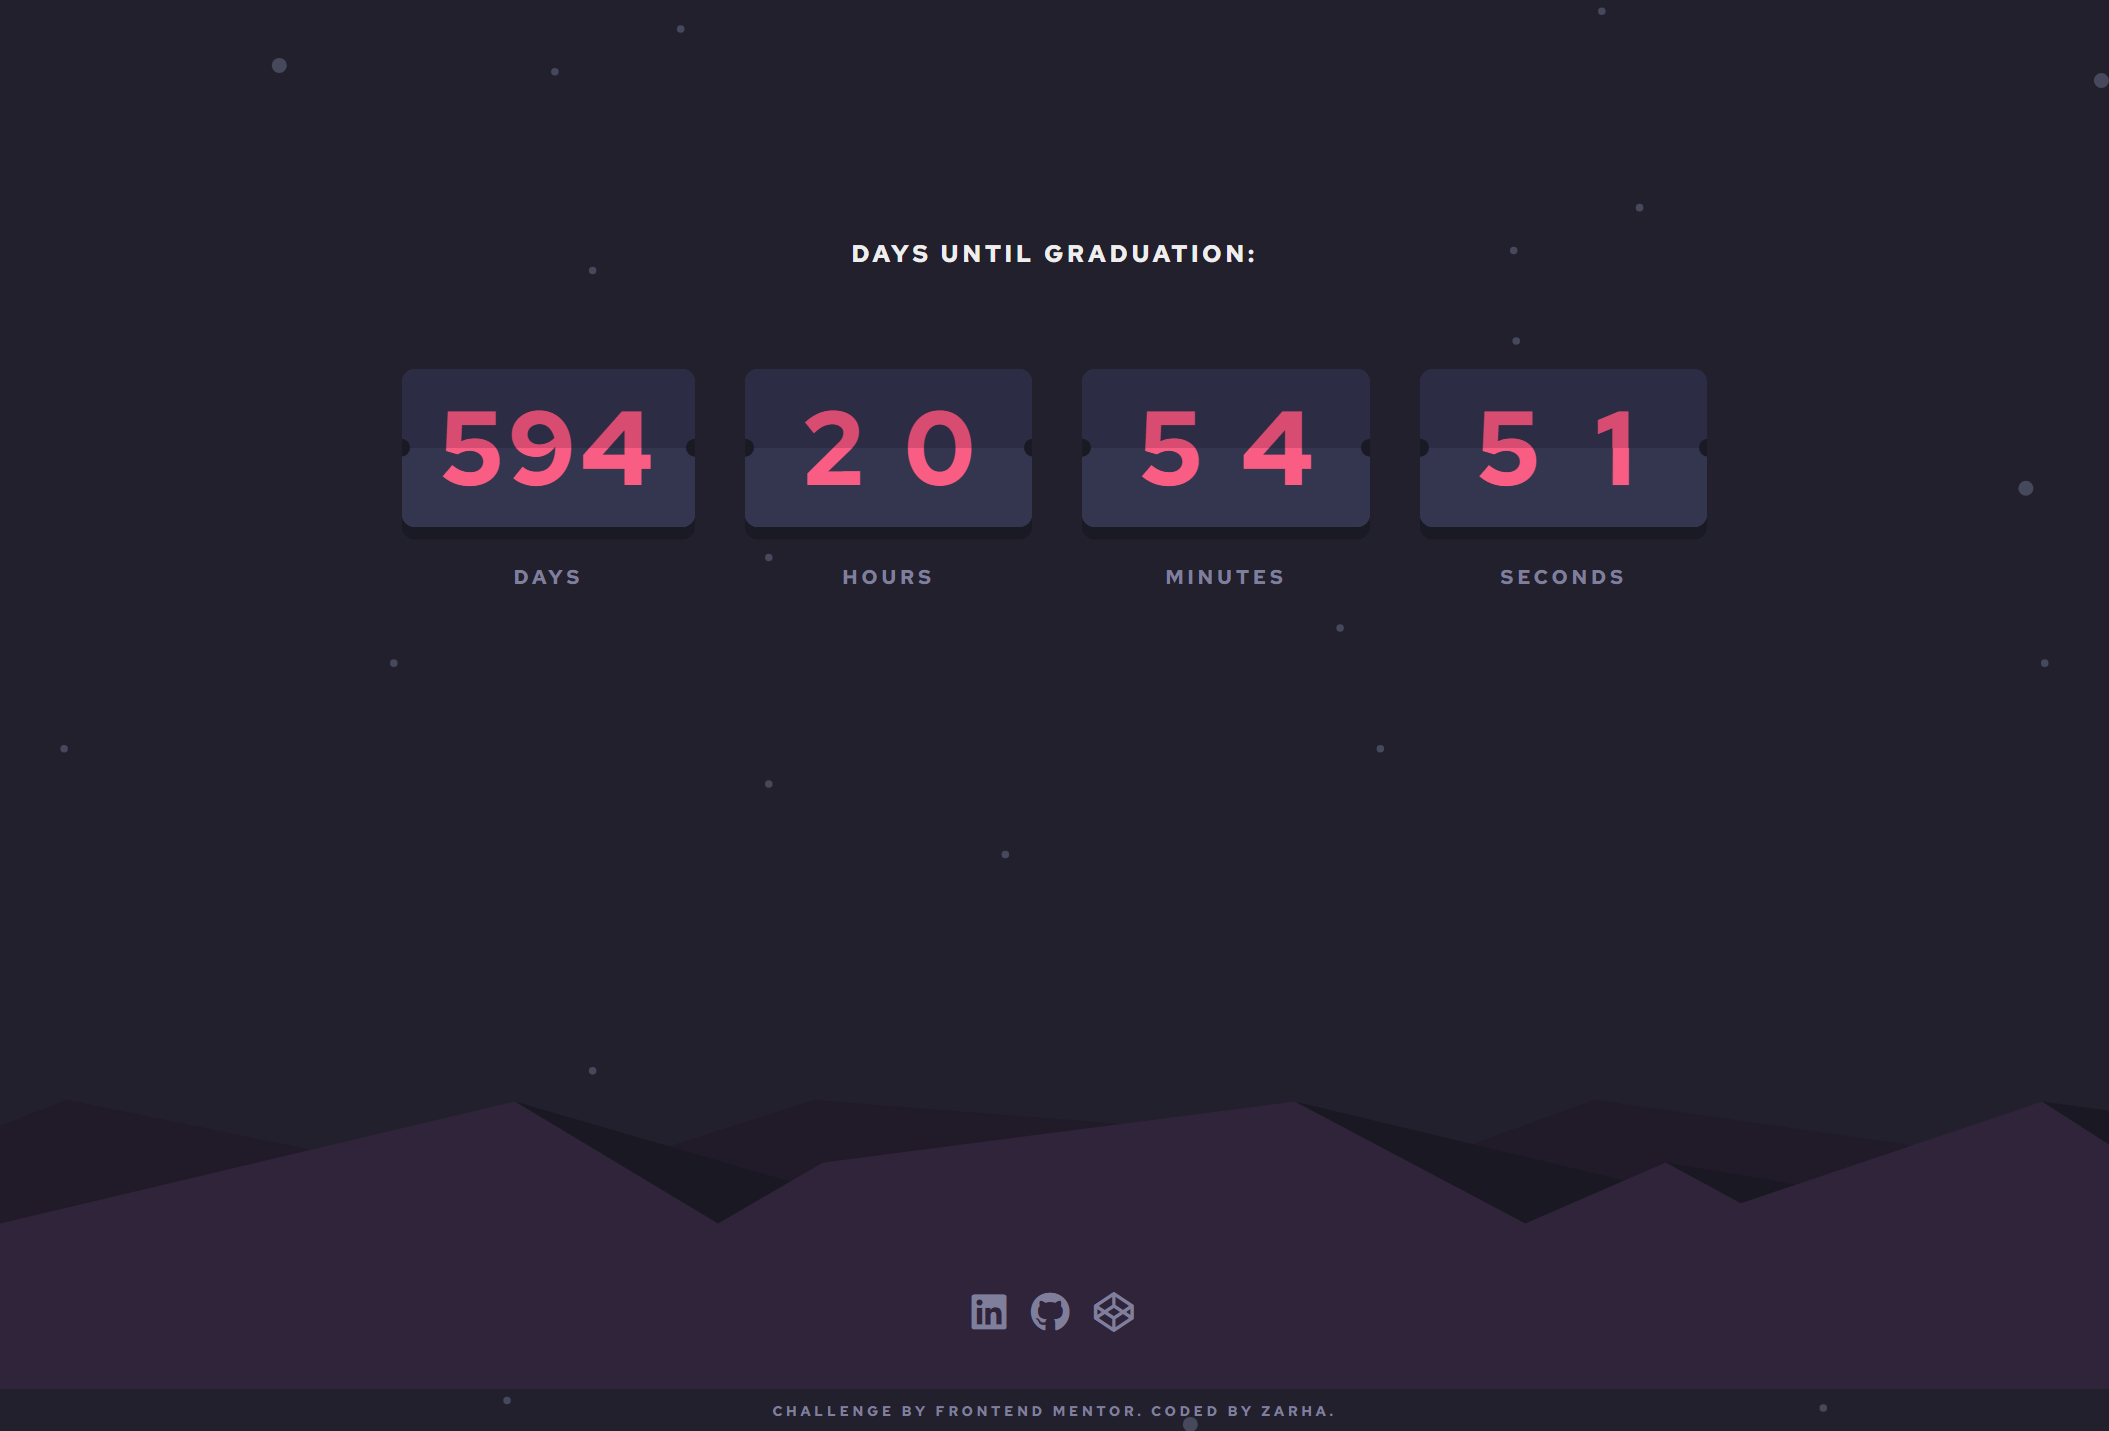
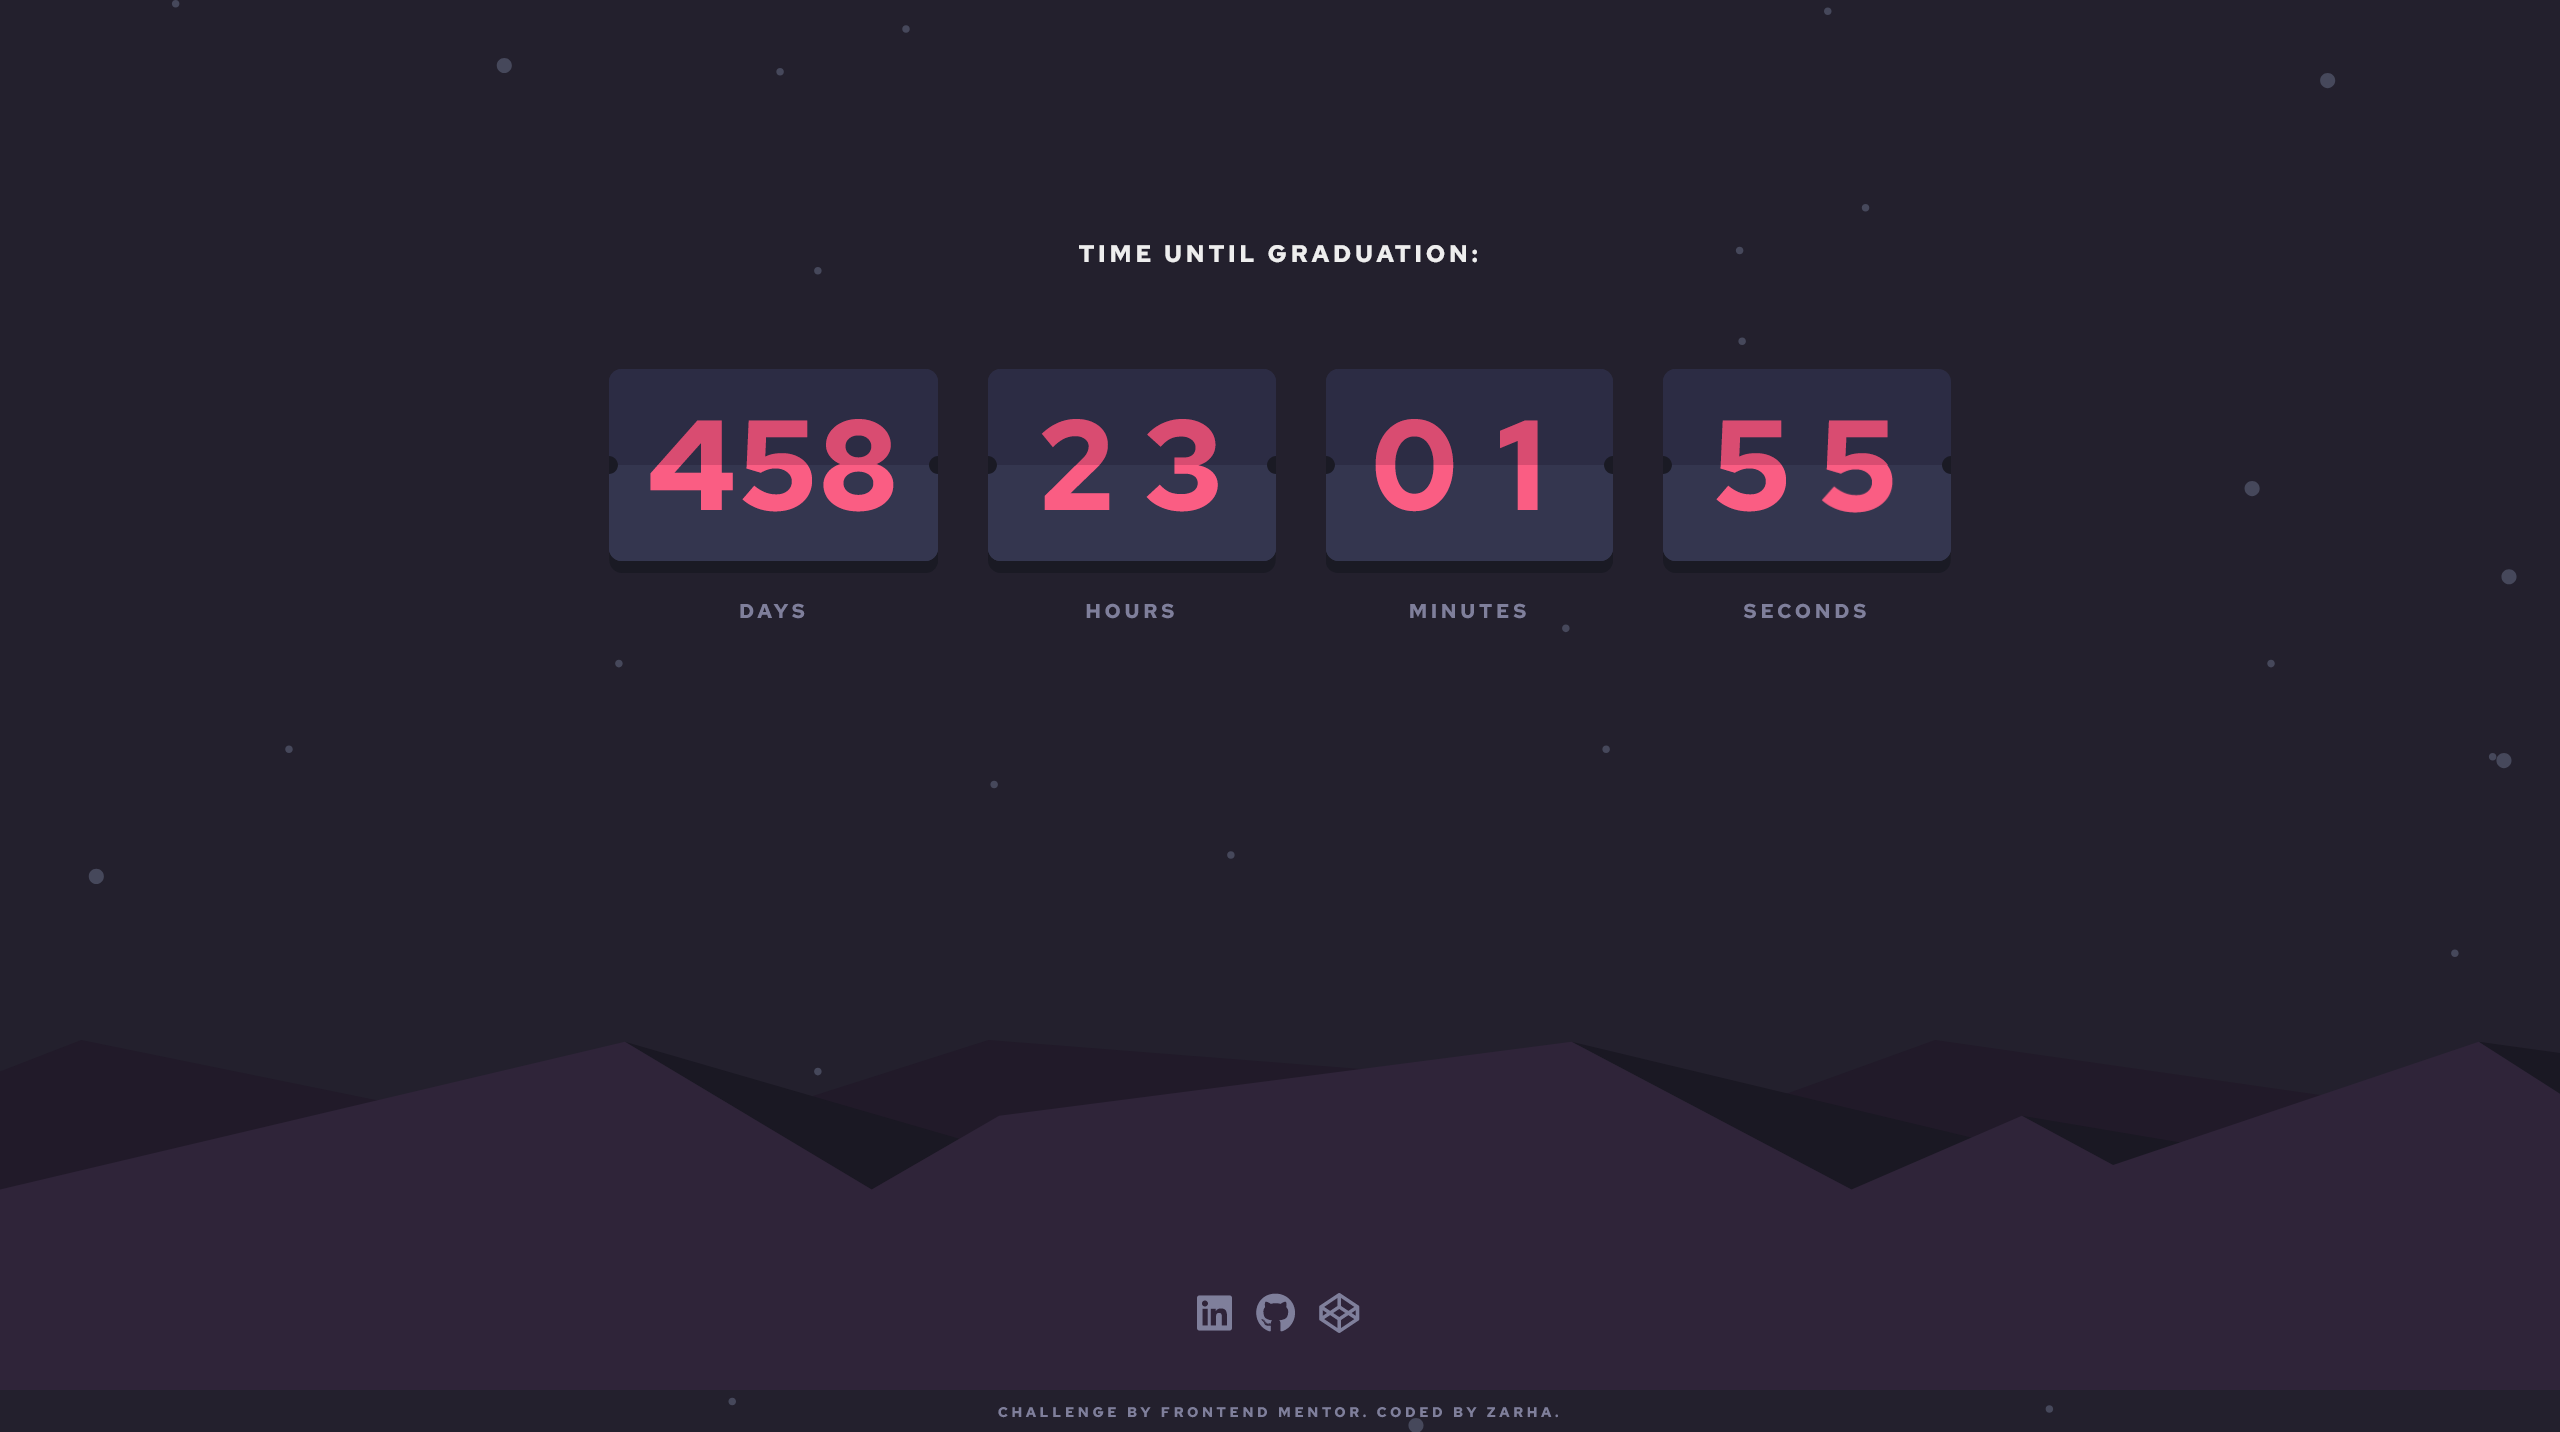
Update header text for graduation countdown

diff --git a/index.html b/index.html
@@ -18,7 +18,7 @@
   </head>
   <body>
     <header>
-      <h1>Days until Graduation:</h1>
+      <h1>Time until Graduation:</h1>
     </header>
     <main class="countdown">
       <!-- Days section -->
